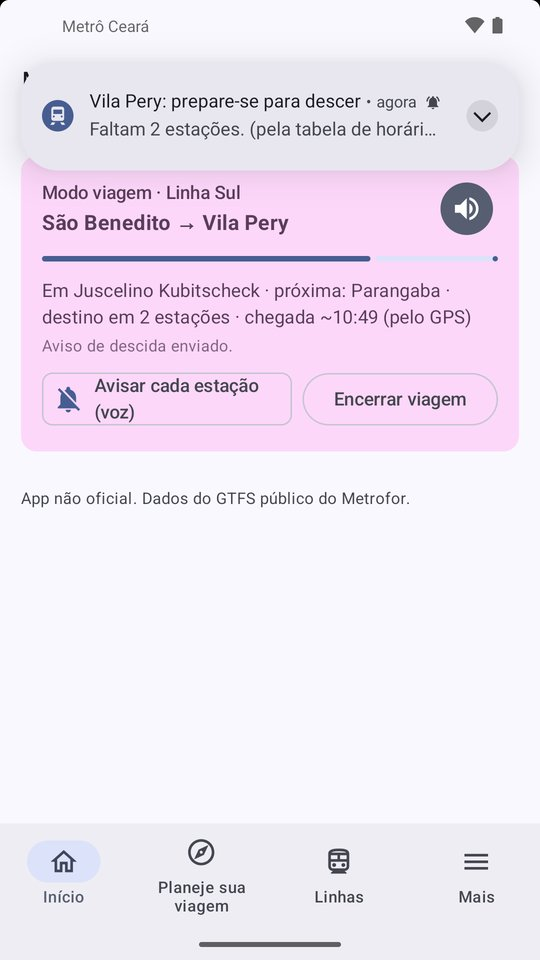
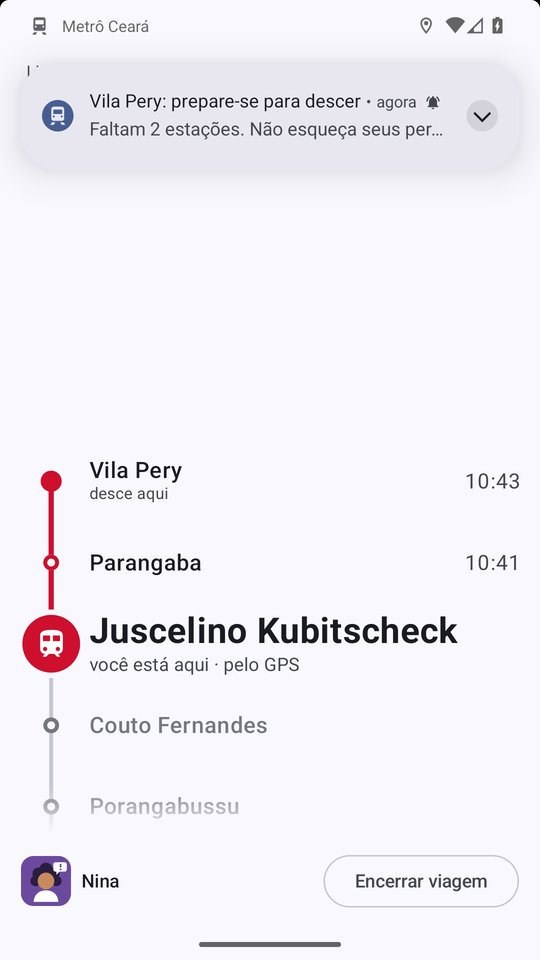
Documentação e captura 3 com o trilho do modo viagem

diff --git a/README.md b/README.md
@@ -109,9 +109,8 @@ Passagem (o guia), Nina, Ajustar para mim, Configurações, De onde vem cada
 informação, Sobre o app e Compartilhar o app. Ícone sem nome não serve para
 todo mundo, por isso cada botão diz o que faz; com letra grande, "Planeje sua
 viagem" quebra em duas linhas. A aba aberta volta depois de abrir uma linha.
-Ao começar o modo viagem, o app vai para o Início, onde está o andamento;
-durante a viagem, "Planeje sua viagem" mostra o cartão dela no lugar da busca
-(não se começa outra viagem por cima).
+Durante o modo viagem, a barra e as abas dão lugar à tela do trilho; ao terminar
+ou encerrar a viagem, o app volta ao Início.
 
 ### Nina (Super NINA)
 
@@ -336,7 +335,8 @@ e `TripService`):
 - **No trecho:** a notificação fixa mostra "Benfica → Papicu · chegada 08:40 ·
   Agora: Linha Sul, em Couto Fernandes · Integração em Parangaba às 08:01 ·
   Linha Nordeste às 08:10", com uma barra de progresso da viagem inteira. O
-  cartão no app tem a **linha do tempo** dos trechos ("feito", "agora").
+  **trilho** no app mostra as estações de todos os trechos, cada um na cor da
+  sua linha, com a caminhada da integração no meio.
 - **Antes da integração:** "Prepare-se: integração em Parangaba · Faltam 2
   estações para Parangaba. Depois, Linha Nordeste às 08:10."
 - **Na integração:** "Desça em Parangaba e vá para a Linha Nordeste, 2 min a pé.
@@ -421,10 +421,39 @@ navegadores não permitem.
 O modo viagem começa pelo resultado da busca **"Para onde você vai?"**
 ([acima](#para-onde-você-vai-roteiro-na-mesma-linha-ou-com-integração)): escolhido
 o destino e saindo agora, o botão **Iniciar modo viagem**. Durante a viagem, a
-barra do topo dá lugar ao cartão com o andamento, e um serviço em
+tela inteira vira o **trilho** e um serviço em
 primeiro plano, com notificação fixa, segue a viagem com a tela desligada (o
 ícone pequeno das notificações é a silhueta do trem, `drawable/ic_notification.xml`:
-o Android só usa a forma, e o ícone do app, de fundo cheio, virava um quadrado):
+o Android só usa a forma, e o ícone do app, de fundo cheio, virava um quadrado).
+
+**O trilho** ([`ui/TripRailScreen.kt`](app/src/main/java/io/github/giova/metroceara/ui/TripRailScreen.kt),
+montado por [`data/TripRail.kt`](app/src/main/java/io/github/giova/metroceara/data/TripRail.kt)):
+o destino fica em cima, as estações que já passaram embaixo, apagadas, e quem
+viaja fica sempre na mesma altura, em letra grande. A cada estação confirmada o
+trilho desliza (0,7 s), e só aí: uma bolinha andando pelo relógio mentiria no
+túnel. Correção do GPS para trás não dá ré na frente da pessoa, troca direto.
+Com as animações do Android desligadas, a troca também é direta; para o TalkBack,
+o trilho inteiro é uma frase só, a mesma "Em X · próxima: Y · destino em N
+estações · chegada ~H".
+
+- Cada estação à frente traz o horário previsto; o **sino** marca onde sai o
+  aviso de descida; "mais N estações até X" aparece no topo quando o trajeto
+  não cabe.
+- **Sem posição confirmada**, a linha à frente e o trem ficam tracejados.
+- **Antes de embarcar**, ou andando na integração, o trilho fica parado e um
+  quadro diz "Metrô às 13:40, em 6 min · sentido X".
+- **Lugar buscado:** se o destino veio de "Buscar lugares", a estação final diz
+  "desce aqui · para Mercado Central". Lugares nas outras estações não: a tela
+  serve para bater o olho, e entre duas estações o app não sabe onde o metrô está.
+- **Na tela só fica o essencial:** o som do aviso de chegada (começa ligado),
+  o menu ⋮ com "Avisar cada estação", a Nina (rostinho e nome, só onde ela
+  atende; o toque não é registrado) e "Encerrar viagem", com confirmação. O
+  voltar do celular só tira o app da frente; a viagem continua.
+- **Ao chegar**, uma tela curta com o horário, o tempo de viagem e as estações
+  (`TripArrival`). Quem encerra antes vai direto ao Início, e quem abre o app
+  mais de 30 min depois de chegar não vê o resumo.
+
+Por trás da tela, o serviço segue a viagem assim:
 
 - **Onde o trem está.** Pelo GPS, quando a posição é precisa (≤150 m) e está a
   até 300 m de uma estação do caminho. Cada estação confirmada mede o atraso
@@ -458,7 +487,7 @@ o Android só usa a forma, e o ícone do app, de fundo cheio, virava um quadrado
   as repassa ao estimador.
 - **Quando o GPS é dado como perdido.** Depois de **1 minuto** sem nenhuma
   posição boa (12 tentativas, uma a cada 5 s) — menos que os ~2 min entre duas
-  estações. A partir daí o cartão mostra um quadro em destaque, de fundo neutro
+  estações. A partir daí a tela mostra um quadro em destaque, de fundo neutro
   e letra legível (ícone vermelho só para chamar atenção): "**Sem GPS há N
   min** — Posição estimada pela tabela de horários. Confira o nome das
   estações pela janela." A notificação fixa ganha
@@ -469,7 +498,7 @@ o Android só usa a forma, e o ícone do app, de fundo cheio, virava um quadrado
   Metrofor, deslocados pelo atraso que o GPS mediu na última estação vista.
 - **Aviso duas estações antes do destino**, com notificação e vibração:
   "**Benfica: prepare-se para descer** · Faltam 2 estações." O
-  botão de alto-falante no cartão da viagem liga ou desliga o **som**; com som,
+  botão de alto-falante na tela da viagem liga ou desliga o **som**; com som,
   o aviso usa o áudio de alarme, que toca mesmo com o celular no vibrar.
 - **Avisar cada estação (voz)**, opcional e desligado por padrão: a cada
   estação alcançada, uma notificação curta e a voz do sistema (o "Conversão de
